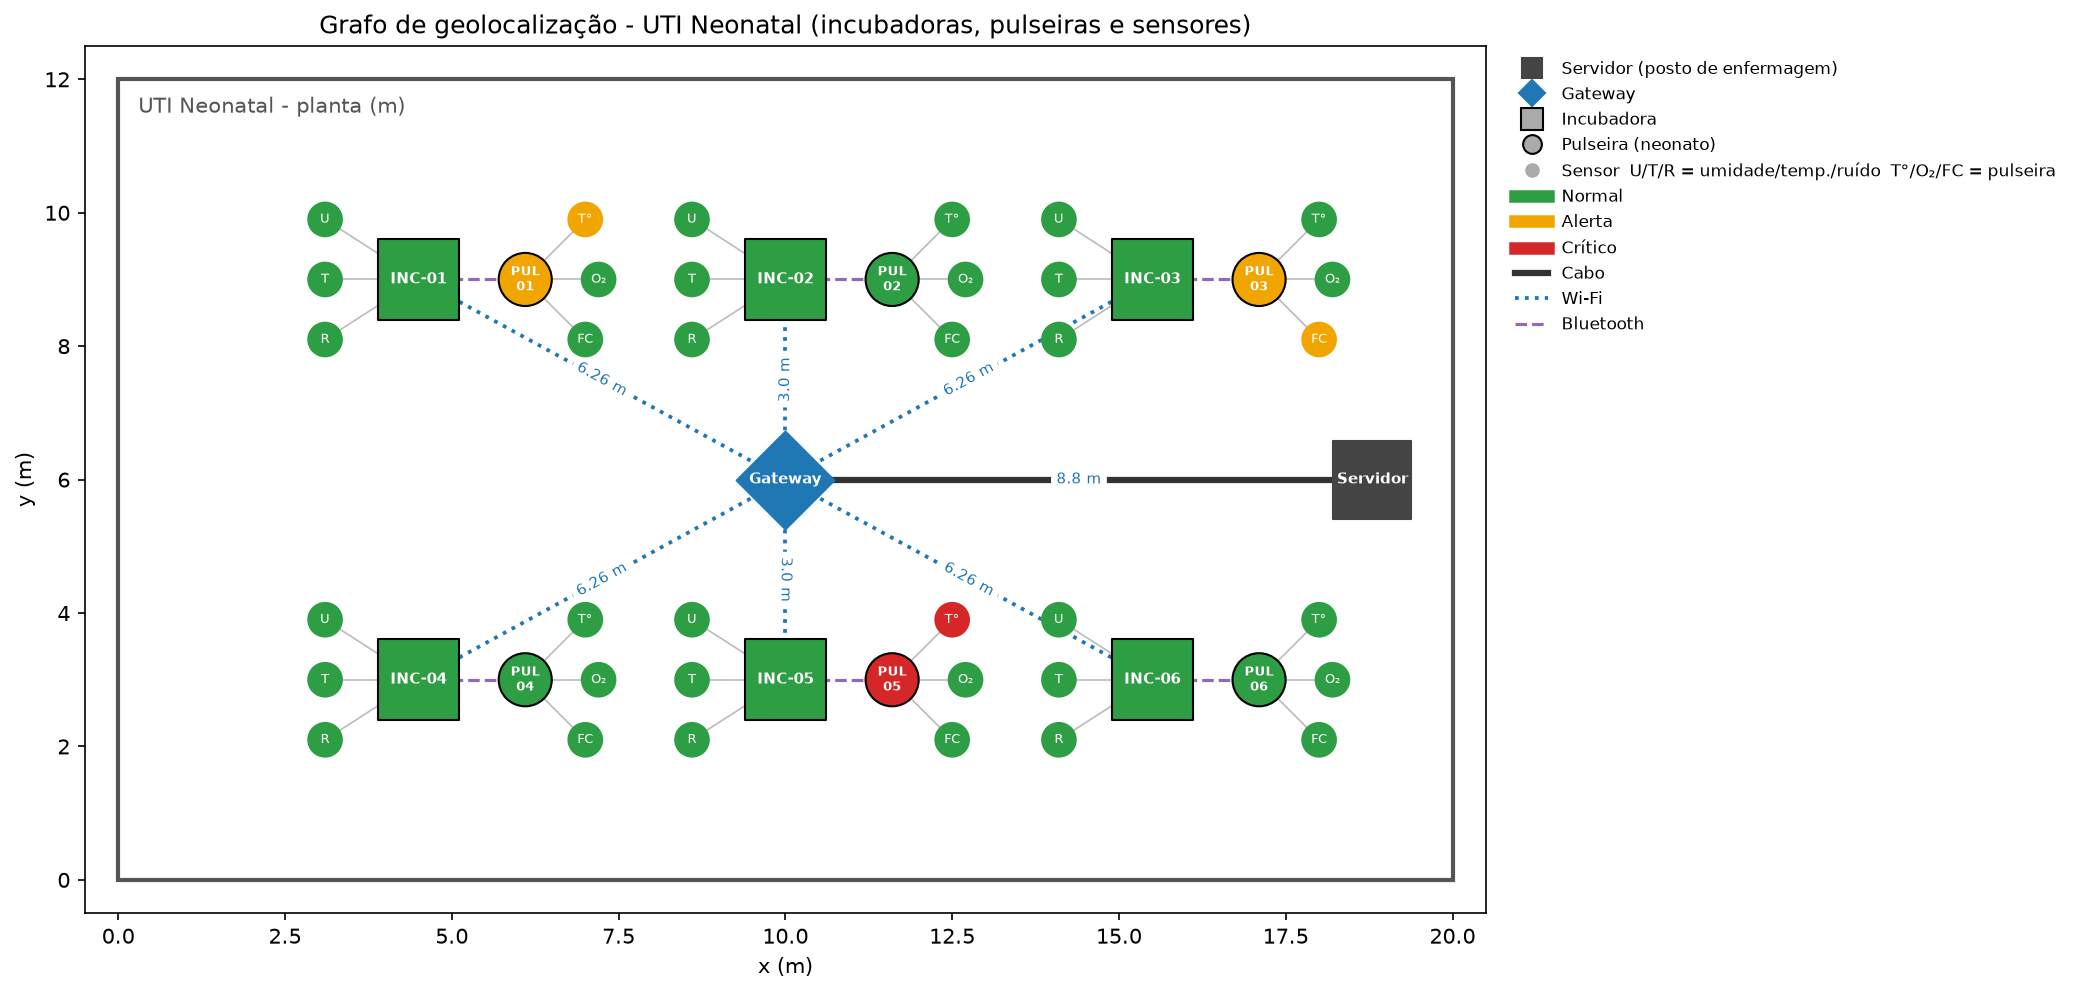
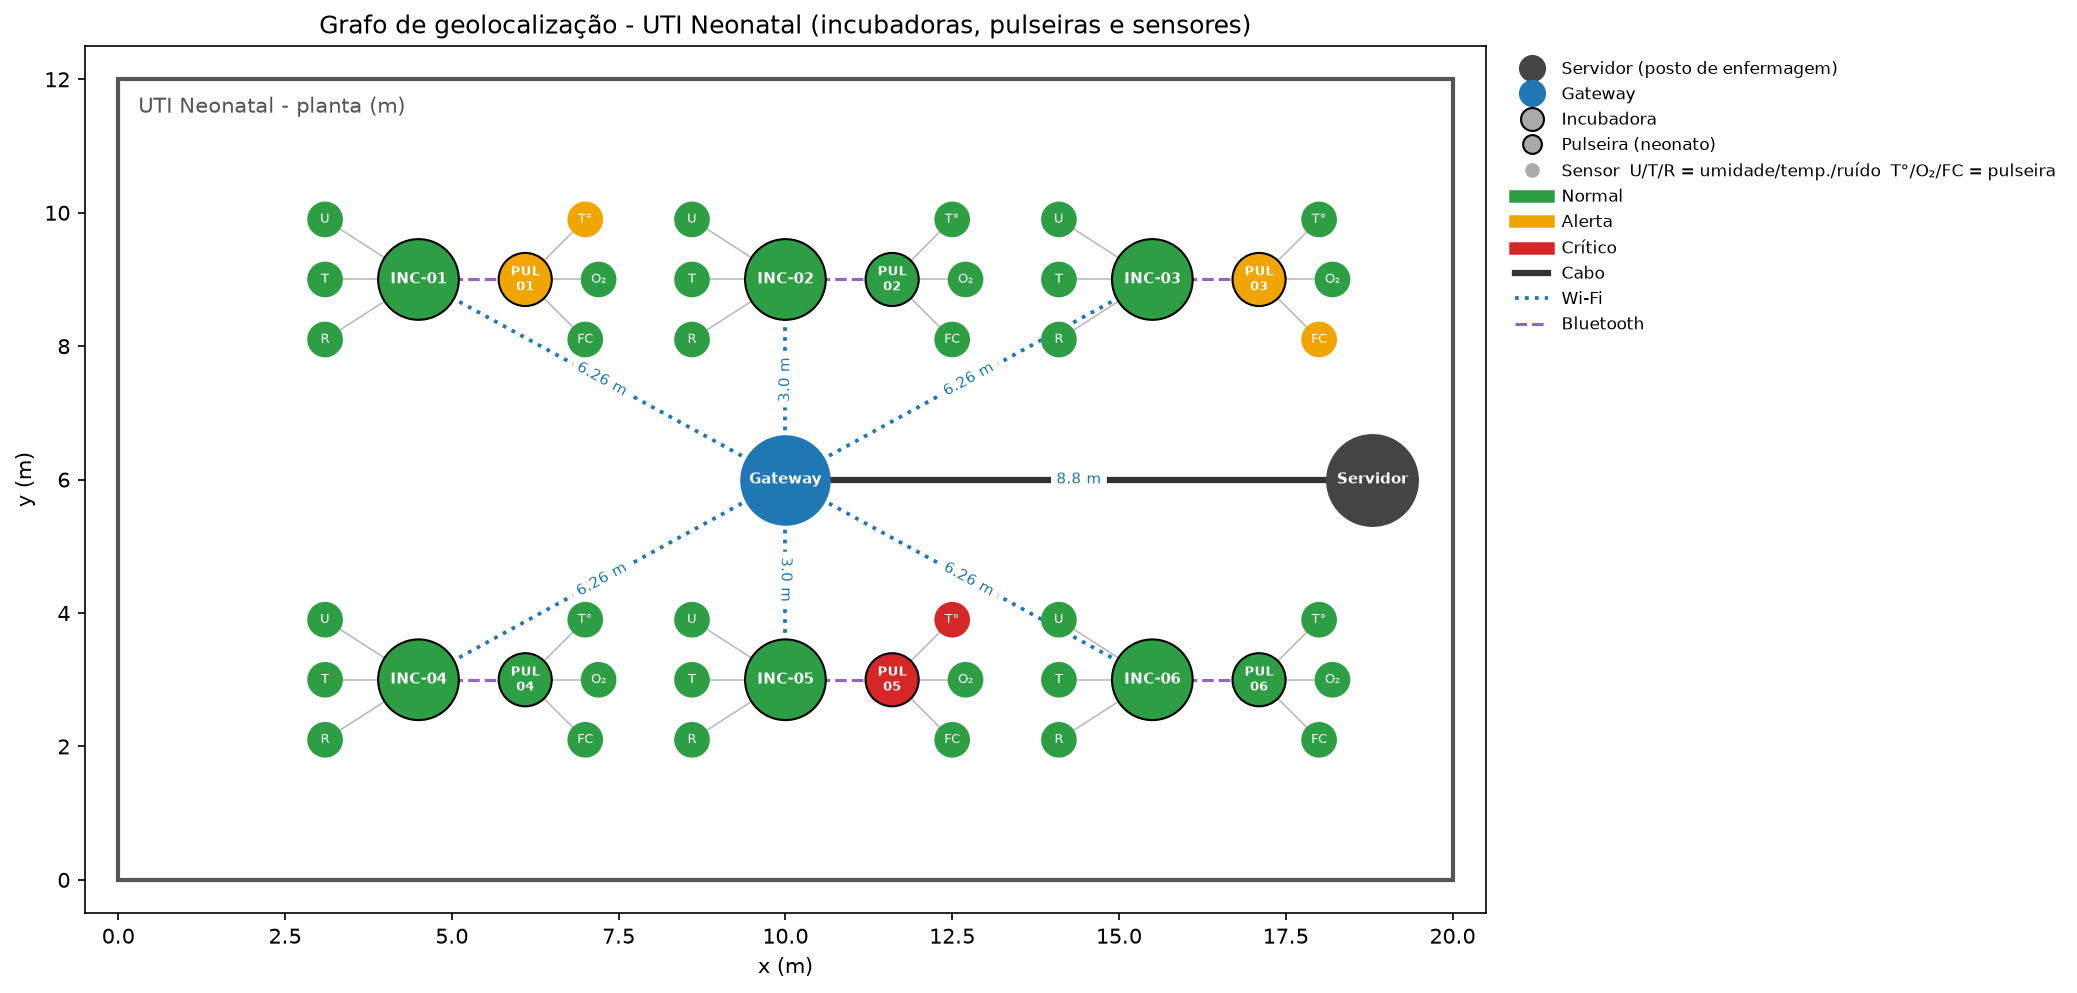
Usa nós circulares e ajusta faixas saudáveis dos sensores
Todos os nós do grafo passam a ser círculos (tamanho indica o tipo, cor
indica o status). Faixas atualizadas: incubadora 32-34 °C, umidade
50-65 %, ruído < 45 dB; neonato 36,5-37,5 °C, FC 120-160 bpm, SpO2
95-100 %.

diff --git a/grafo_uti.py b/grafo_uti.py
@@ -28,12 +28,12 @@ ALTURA_UTI = 12
 # Faixas de referência de cada sensor:
 # (mínimo normal, máximo normal, tolerância para "alerta", unidade)
 FAIXAS = {
-    "umidade":     (50.0, 80.0, 5.0, "%"),     # umidade do ar da incubadora
-    "temp_inc":    (36.0, 37.5, 0.5, "°C"),    # temperatura do ar da incubadora
+    "umidade":     (50.0, 65.0, 5.0, "%"),     # umidade do ar da incubadora
+    "temp_inc":    (32.0, 34.0, 0.5, "°C"),    # temperatura do ar da incubadora
     "ruido":       (0.0, 45.0, 10.0, "dB"),    # ruído dentro da incubadora
     "temp_bebe":   (36.5, 37.5, 0.5, "°C"),    # temperatura corporal (pulseira)
-    "oxigenio":    (90.0, 100.0, 5.0, "%"),    # SpO2 (pulseira)
-    "batimento":   (100.0, 160.0, 20.0, "bpm"),  # frequência cardíaca (pulseira)
+    "oxigenio":    (95.0, 100.0, 5.0, "%"),    # SpO2 (pulseira)
+    "batimento":   (120.0, 160.0, 20.0, "bpm"),  # frequência cardíaca (pulseira)
 }
 
 SENSORES_INCUBADORA = ["umidade", "temp_inc", "ruido"]
@@ -228,19 +228,19 @@ def desenhar_grafo(G):
     nx.draw_networkx_edge_labels(G, pos, edge_labels=rotulos_arestas, ax=ax,
                                  font_size=7, font_color="#1f77b4")
 
-    # Nós: formato pelo tipo, cor pelo status
+    # Nós: todos em círculo; o tamanho indica o tipo e a cor indica o status
     def nos_do_tipo(tipo):
         return [n for n, d in G.nodes(data=True) if d["tipo"] == tipo]
 
     def cores(nos):
         return [CORES_STATUS.get(G.nodes[n].get("status"), "#444444") for n in nos]
 
-    nx.draw_networkx_nodes(G, pos, nodelist=nos_do_tipo("servidor"), node_shape="s",
-                           node_size=1400, node_color="#444444", ax=ax)
-    nx.draw_networkx_nodes(G, pos, nodelist=nos_do_tipo("gateway"), node_shape="D",
-                           node_size=1100, node_color="#1f77b4", ax=ax)
+    nx.draw_networkx_nodes(G, pos, nodelist=nos_do_tipo("servidor"), node_shape="o",
+                           node_size=1900, node_color="#444444", ax=ax)
+    nx.draw_networkx_nodes(G, pos, nodelist=nos_do_tipo("gateway"), node_shape="o",
+                           node_size=1800, node_color="#1f77b4", ax=ax)
     incubadoras = nos_do_tipo("incubadora")
-    nx.draw_networkx_nodes(G, pos, nodelist=incubadoras, node_shape="s", node_size=1500,
+    nx.draw_networkx_nodes(G, pos, nodelist=incubadoras, node_shape="o", node_size=1500,
                            node_color=cores(incubadoras), edgecolors="black", ax=ax)
     pulseiras = nos_do_tipo("pulseira")
     nx.draw_networkx_nodes(G, pos, nodelist=pulseiras, node_shape="o", node_size=650,
@@ -262,9 +262,9 @@ def desenhar_grafo(G):
 
     # Legenda
     legenda = [
-        Line2D([], [], marker="s", ls="", color="#444444", ms=10, label="Servidor (posto de enfermagem)"),
-        Line2D([], [], marker="D", ls="", color="#1f77b4", ms=9, label="Gateway"),
-        Line2D([], [], marker="s", ls="", color="#aaaaaa", mec="black", ms=11, label="Incubadora"),
+        Line2D([], [], marker="o", ls="", color="#444444", ms=12, label="Servidor (posto de enfermagem)"),
+        Line2D([], [], marker="o", ls="", color="#1f77b4", ms=12, label="Gateway"),
+        Line2D([], [], marker="o", ls="", color="#aaaaaa", mec="black", ms=11, label="Incubadora"),
         Line2D([], [], marker="o", ls="", color="#aaaaaa", mec="black", ms=9, label="Pulseira (neonato)"),
         Line2D([], [], marker="o", ls="", color="#aaaaaa", ms=6,
                label="Sensor  U/T/R = umidade/temp./ruído  T°/O₂/FC = pulseira"),

diff --git a/README.md b/README.md
@@ -1,4 +1,4 @@
-# grafos
+# Script Grafos
 
 Grafo de **geolocalização** da UTI Neonatal do projeto de monitoramento de incubadoras e neonatos.
 
@@ -23,13 +23,13 @@ Saídas:
 
 ## O que é o grafo
 
-| Elemento | Tipo de nó | Formato no desenho |
+| Elemento | Tipo de nó | No desenho |
 |---|---|---|
-| Servidor (posto de enfermagem) | `servidor` | quadrado cinza escuro |
-| Gateway da UTI | `gateway` | losango azul |
-| Incubadora (`INC-01` … `INC-06`) | `incubadora` | quadrado grande |
-| Pulseira do neonato (`PUL-01` … `PUL-06`) | `pulseira` | círculo médio |
-| Sensores | `sensor` | círculo pequeno |
+| Servidor (posto de enfermagem) | `servidor` | círculo grande cinza escuro |
+| Gateway da UTI | `gateway` | círculo grande azul |
+| Incubadora (`INC-01` … `INC-06`) | `incubadora` | círculo grande (cor = status) |
+| Pulseira do neonato (`PUL-01` … `PUL-06`) | `pulseira` | círculo médio (cor = status) |
+| Sensores | `sensor` | círculo pequeno (cor = status) |
 
 **Sensores da incubadora:** `U` umidade (%), `T` temperatura do ar (°C), `R` ruído (dB).
 **Sensores da pulseira:** `T°` temperatura corporal (°C), `O₂` saturação de oxigênio (%), `FC` frequência cardíaca (bpm).
@@ -55,12 +55,12 @@ Incubadoras e pulseiras recebem o **pior status entre os seus sensores**. Basta 
 
 | Sensor | Faixa normal | Tolerância (alerta) |
 |---|---|---|
-| Umidade | 50 – 80 % | ± 5 % |
-| Temperatura incubadora | 36,0 – 37,5 °C | ± 0,5 °C |
-| Ruído | até 45 dB | + 10 dB |
+| Umidade relativa | 50 – 65 % | ± 5 % |
+| Temperatura incubadora | 32,0 – 34,0 °C | ± 0,5 °C |
+| Ruído | abaixo de 45 dB | + 10 dB |
 | Temperatura corporal | 36,5 – 37,5 °C | ± 0,5 °C |
-| SpO₂ | 90 – 100 % | − 5 % |
-| Frequência cardíaca | 100 – 160 bpm | ± 20 bpm |
+| SpO₂ (oxigenação) | 95 – 100 % | − 5 % |
+| Frequência cardíaca | 120 – 160 bpm | ± 20 bpm |
 
 > As faixas são valores de referência usados para a simulação acadêmica e não substituem protocolos clínicos.
 
@@ -116,7 +116,7 @@ Imprime um bloco por persona:
 ### `desenhar_grafo(G)`
 - desenha o contorno da planta (20 m × 12 m);
 - desenha as arestas por tipo de conexão, com estilos diferentes, e o rótulo de distância nas conexões Wi-Fi e cabo;
-- desenha os nós com formato por tipo e cor por status;
+- desenha todos os nós como círculos (representação clássica de grafo): o tamanho indica o tipo e a cor indica o status;
 - adiciona a legenda e salva em `grafo_uti.png`.
 
 ### Como adaptar
